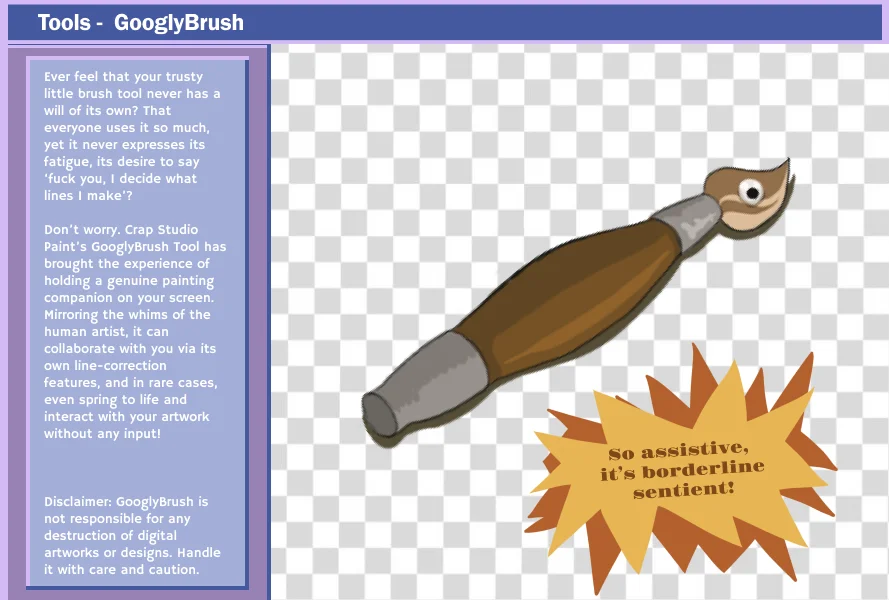
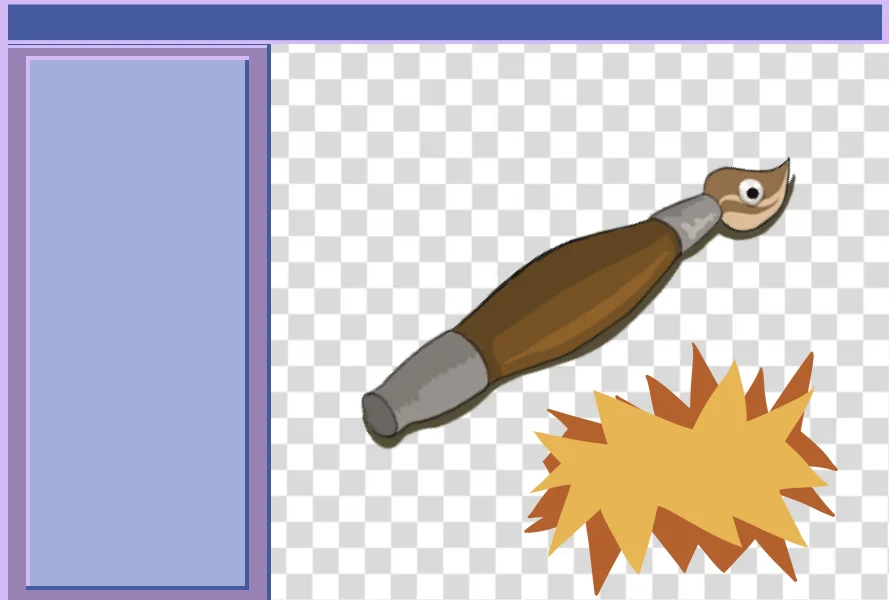
Add files via upload

diff --git a/index.html b/index.html
@@ -6,15 +6,15 @@
     <link rel="stylesheet" href="styles.css" />
   </head>
   <body>
-    <div class="text-container1">
-      <p class="body-text">
+    <div class="menu-body-text-container">
+      <p class="menu-body-text">
           Don’t you just hate seeing people making slop wherever you go? Well, with Crap Studio Paint, you can create easy knowing you’re making garbage instead.<br><br>
           Crap Studio Paint’s cutting-edge tools can seamlessly make your life just that little bit more inconvenient, emphasizing a much more immersive and frustrating experience. Every single stroke drawn with our patented PastePencil and GooglyBrush can equate to thousands of prompts and images generated, in both effort and reward.<br><br>
           And best of all? You’ll never grow bored. Every feature in Crap Studio Paint is designed with randomness in mind so that no matter how sure you are that your artwork is finished, there will always be surprises right around the corner. Always keeping you on your feet (or elbows)! 
         </p>
     </div>
-    <div class="text-container2">
-      <h1 class="header-text">
+    <div class="menu-header-text-container">
+      <h1 class="menu-header-text">
         Remember, trust the process.<br>
         The process also includes
         trusting your stylus
@@ -27,6 +27,15 @@
     <button id="button4" class="imageButtonBottom"></button>
     <div id="overlay1">
       <div id="overlaycontent1">
+        <div class="overlay-header-text-container">
+          <h1 class="overlay-header-text">Tools - GooglyBrush</h1>
+        </div>
+        <div class="overlay-body-text-container">
+          <p class="overlay-body-text">
+            Ever feel like your trusty little brush tool never has a will of its own? That everyone uses it so much, yet it never expresses its fatigue, its desire to say 'fuck you, I decide what lines I make'?<br><br>
+            Don't worry. Crap Studio Paint's GooglyBrush Tool has brought the experience of holding a genuine painting companion on your screen. Mirroring the whims of the human artist, it can collaborate with you via its own line-correction features, and in rare cases, even spring to life and interact with your artwork without any input!<br><br><br><br>
+            Disclaimer: GooglyBrush is not responsible for any destruction of digital artworks or designs. Handle it with care and caution.
+          </p>
             <button class="closeButton" id="closeButton1"></button>
       </div>
     </div>

diff --git a/styles.css b/styles.css
@@ -10,7 +10,7 @@
         background-color: lightsteelblue;
       }
 
-      .text-container1 {
+      .menu-body-text-container {
         position: fixed;
         bottom: 3%;
         right: 48%;
@@ -22,11 +22,11 @@
         color: white;
       }
 
-      .text-container1::-webkit-scrollbar {
+      .menu-text-container1::-webkit-scrollbar {
         display: none; /* Chrome, Safari, Edge, and Opera */
       }
 
-      .text-container2 {
+      .menu-header-text-container {
         position: fixed;
         bottom: 15%;
         right: 27%;
@@ -38,17 +38,54 @@
         color: white;
       }
 
-      .header-text {
+      .overlay-header-text-container {
+        position: fixed;
+        height: 28px;
+        width: 211px;
+        left: 9%;
+        top: 3%;
+        overflow: auto;
+        scrollbar-width: none; /* Firefox */
+        -ms-overflow-style: none; /* Internet Explorer and Edge */
+        color: white;
+      }
+
+      .overlay-body-text-container {
+        position: fixed;
+        height: 506px;
+        width: 183px;
+        left: 10%;
+        top: 50%;
+        overflow: auto;
+        scrollbar-width: none; /* Firefox */
+        -ms-overflow-style: none; /* Internet Explorer and Edge */
+        color: white;
+      }
+
+      .menu-header-text {
         font-size: clamp(6px, 3vw, 24px);
         font-weight: bold;
         color: white;
         line-height: auto;
       }
 
-      .body-text {
+      .menu-body-text {
         font-size: clamp(1rem, 2vw, 16px);
         color: white;
         margin-top: 1rem;
+        line-height: auto;
+      }
+
+      .overlay-body-text {
+        font-size: 13.5px;
+        color: white;
+        line-height: auto;
+      }
+
+      .overlay-header-text {
+        font-size: 24px;
+        font-weight: bold;
+        color: white;
         line-height: auto;
       }
 
